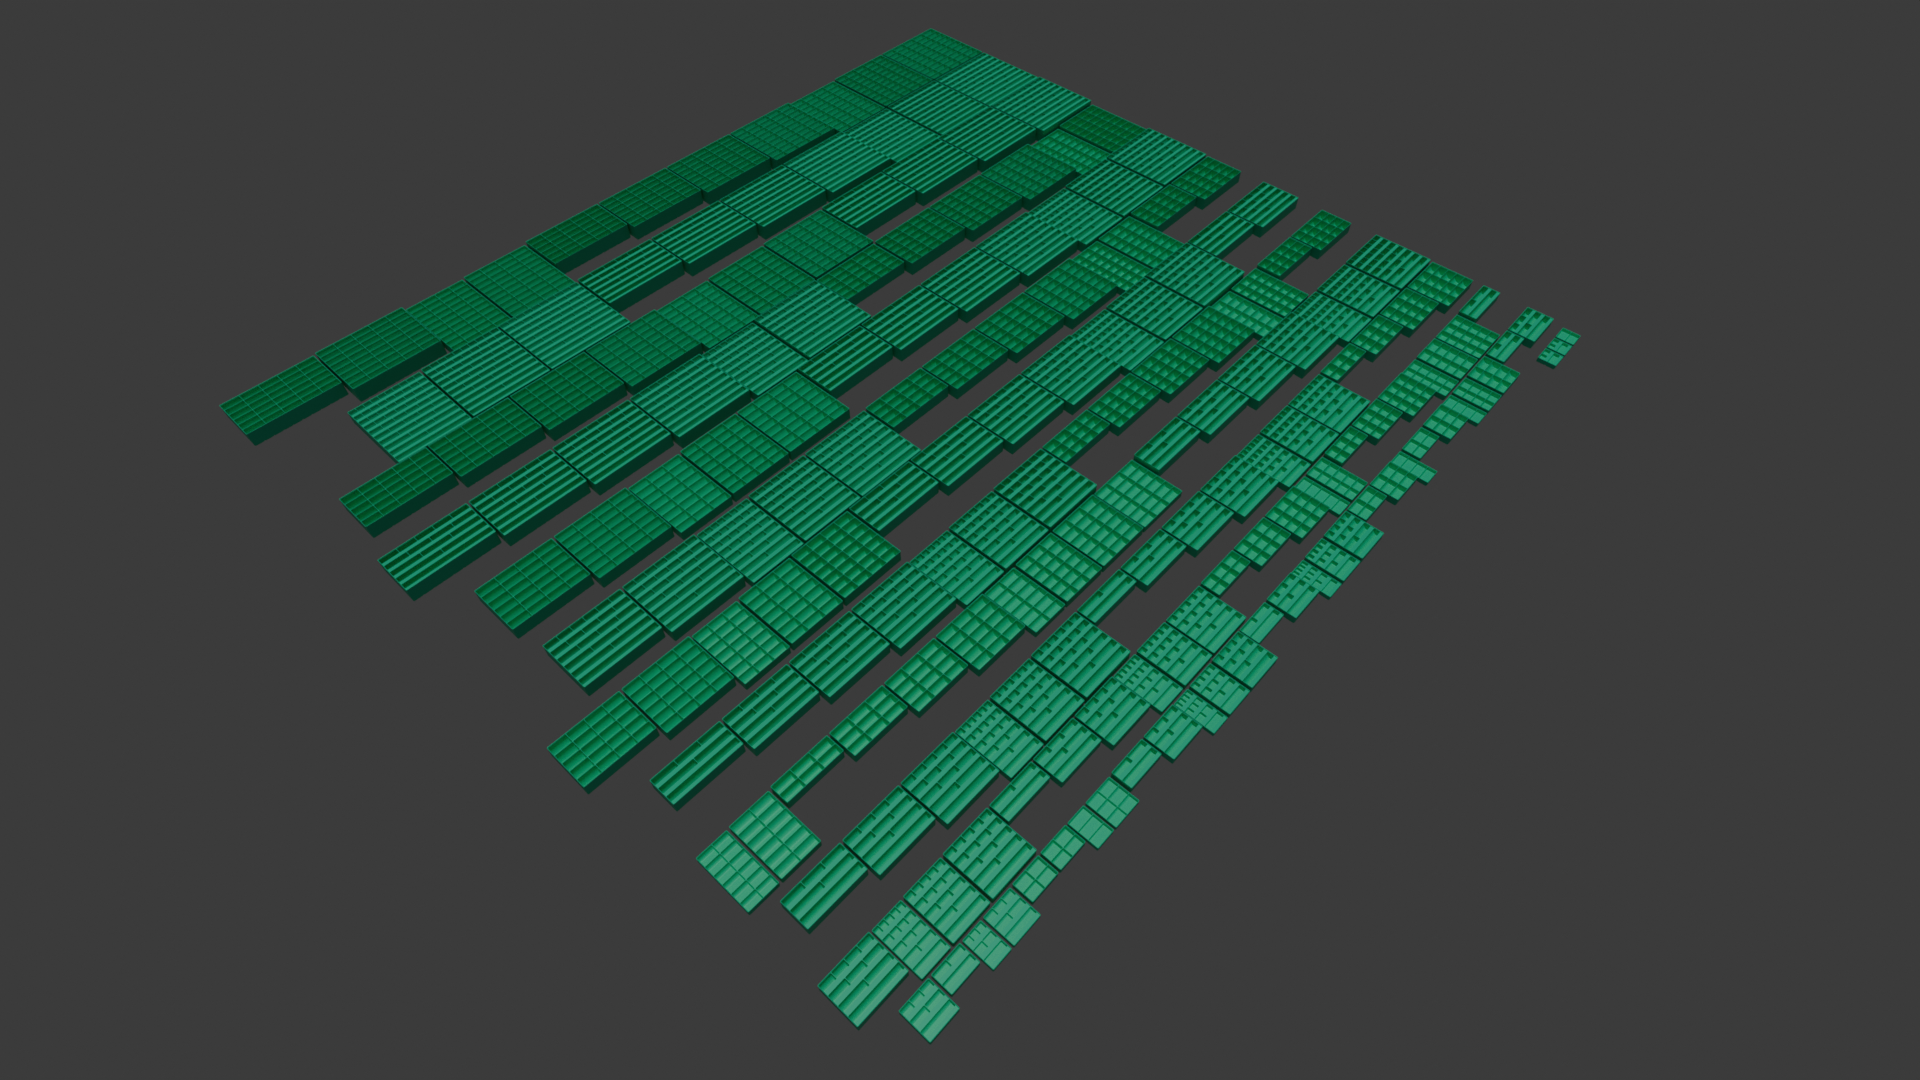
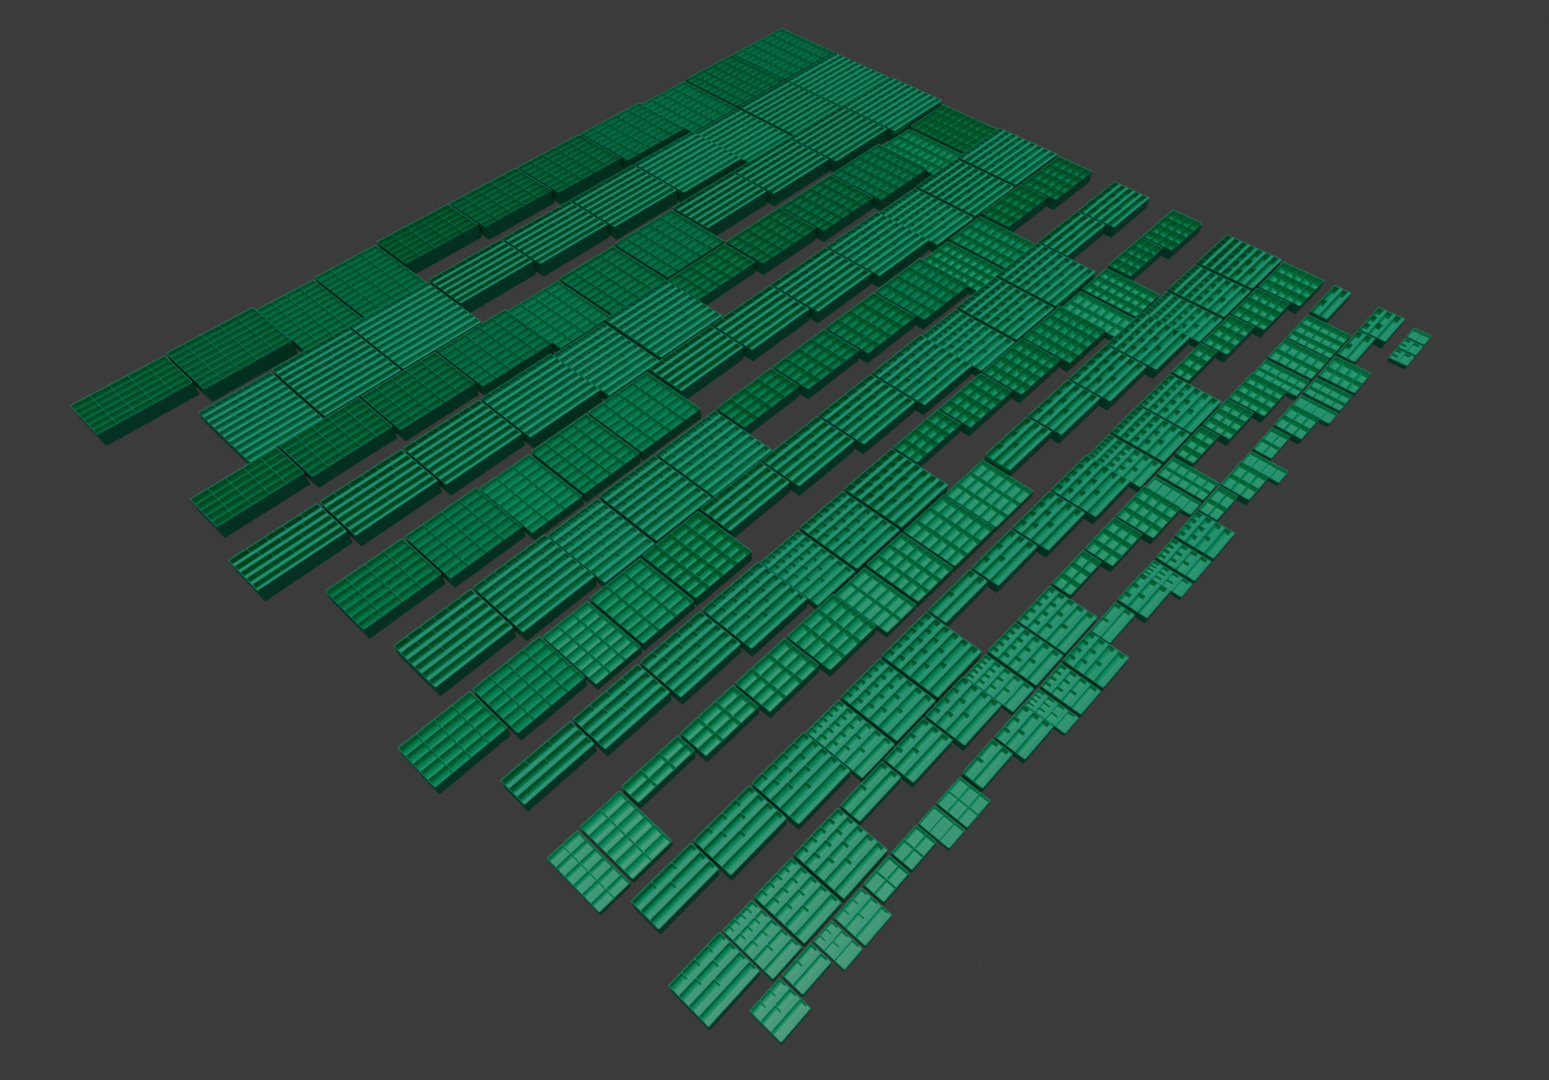
fixed image path

Changed region(s): [[0.031, 0.0306, 0.9296, 0.9778]]

diff --git a/paper/paper.md b/paper/paper.md
@@ -70,7 +70,7 @@ After the batch export completes, the generated STL files can be accessed, exemp
 
 The OpenSCAD Batch Exporter was validated for large-scale operations using the Gridfinity storage system rebuilt in OpenSCAD [@kenneth_gridfinity_2024], generating 200 unique models to test performance and reliability under high-demand workloads. The resulting STL models were visualized and analyzed in Blender, as shown in Figure \autoref{fig:gridfinity_display}.
 
-![Visualization of 200 Gridfinity models generated using the OpenSCAD Batch Exporter.\label{fig:gridfinity_display}](paper/gridifinity_display_mass_export.png){width=1100px}
+![Visualization of 200 Gridfinity models generated using the OpenSCAD Batch Exporter.\label{fig:gridfinity_display}](gridifinity_display_mass_export.png){width=1500px}
 
 This entire development and testing process was conducted using the latest stable release, OpenSCAD 2021.01 [@openscad_2021].
 
